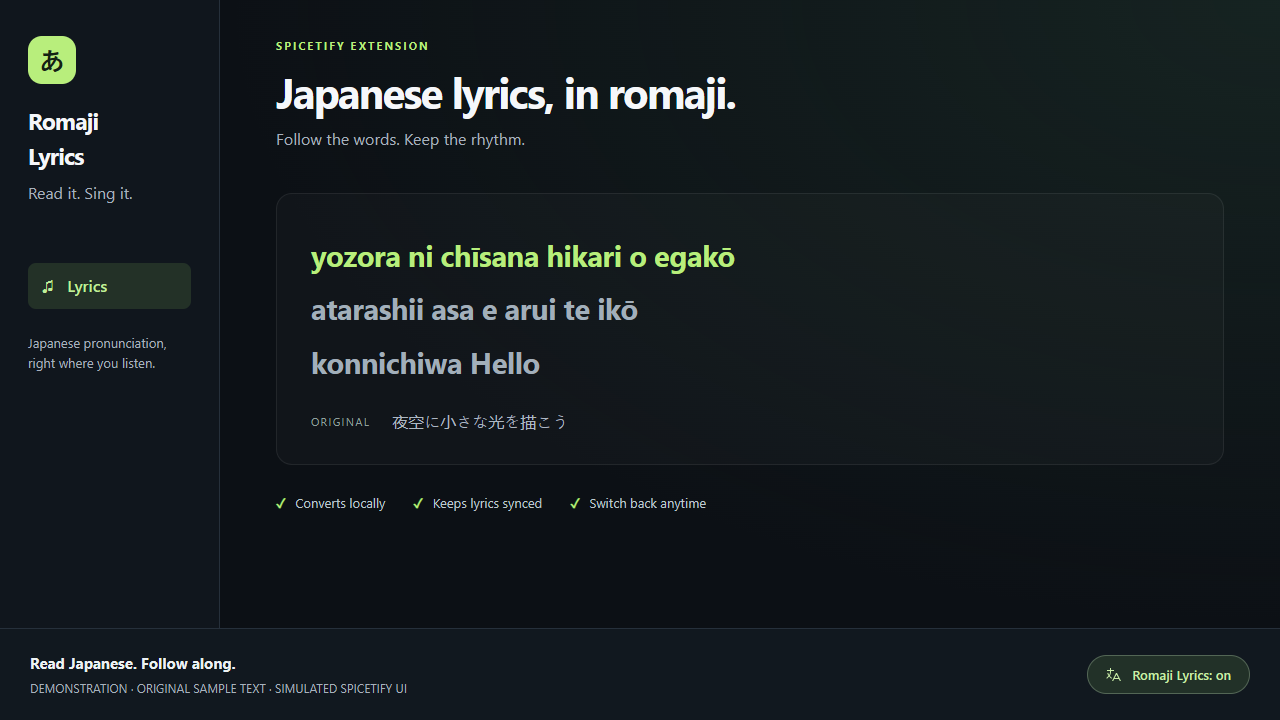
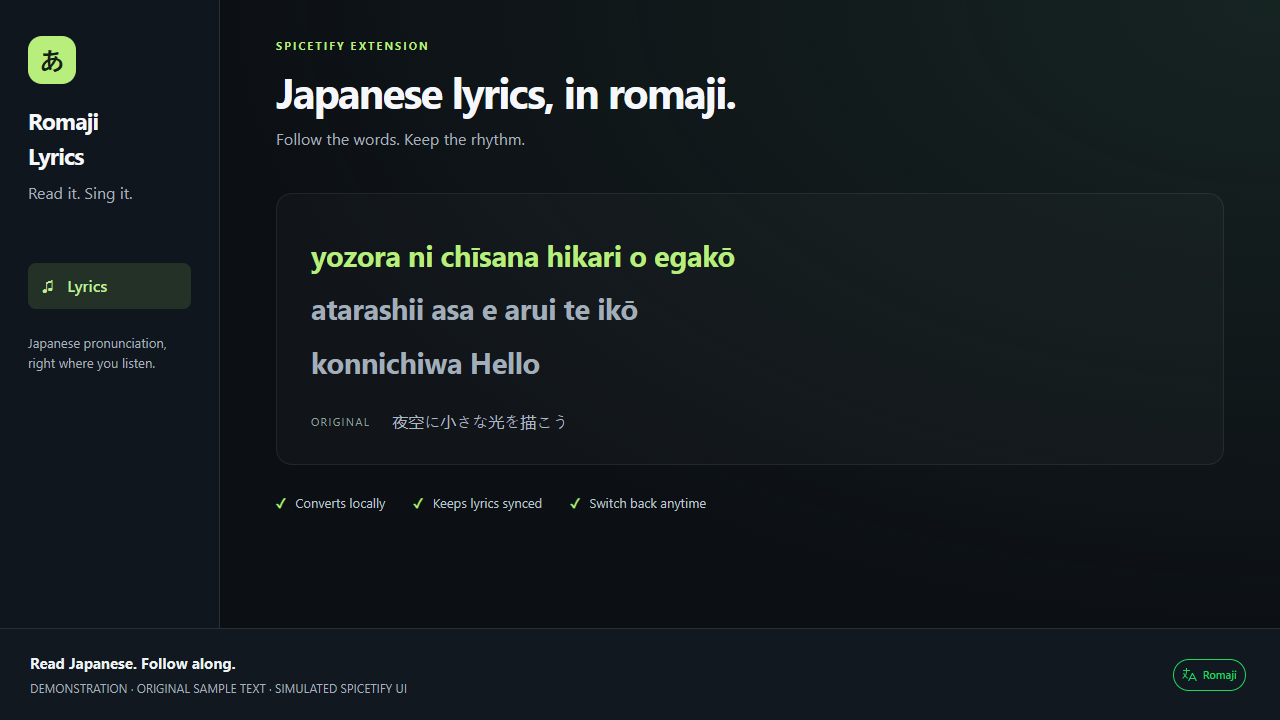
Restore visible Japanese and romaji player toggle

Changed region(s): [[0.8438, 0.8861, 1.0, 0.9778]]

diff --git a/romaji_lyrics.js b/romaji_lyrics.js
@@ -1,4 +1,4 @@
-// Romaji Lyrics v1.0.2 | MIT | https://github.com/Piyush-Sagar/spicetify-romaji-lyrics
+// Romaji Lyrics v1.0.3 | MIT | https://github.com/Piyush-Sagar/spicetify-romaji-lyrics
 // Bundled third-party code: see THIRD_PARTY_NOTICES.md and licenses/.
 /*!
 --- doublearray-LICENSE.txt ---
@@ -4200,6 +4200,50 @@ SOFTWARE.
     }
   };
 
+  // src/toggle.js
+  function createLyricsToggle({ document: document2, enabled, onToggle, icon }) {
+    const button = document2.createElement("button");
+    button.id = "romaji-toggle";
+    button.type = "button";
+    button.dataset.romajiIgnore = "";
+    button.style.cssText = "display:inline-flex;align-items:center;justify-content:center;gap:5px;flex:0 0 auto;min-height:32px;padding:0 8px;margin-right:4px;border:1px solid currentColor;border-radius:16px;background:transparent;font-family:inherit;font-size:11px;font-weight:600;line-height:1.2;cursor:pointer;";
+    const glyph = document2.createElement("span");
+    glyph.setAttribute("aria-hidden", "true");
+    glyph.style.cssText = "display:flex;align-items:center;";
+    glyph.innerHTML = icon;
+    const label = document2.createElement("span");
+    button.append(glyph, label);
+    button.addEventListener("click", onToggle);
+    function update(isRomaji) {
+      label.textContent = isRomaji ? "Romaji" : "日本語";
+      const action = isRomaji ? "Show Japanese lyrics" : "Show romaji lyrics";
+      button.setAttribute("aria-label", action);
+      button.setAttribute("aria-pressed", String(isRomaji));
+      button.title = action;
+      button.style.color = isRomaji ? "var(--spice-button, #1ed760)" : "var(--spice-subtext, #b3b3b3)";
+    }
+    function mount() {
+      const bar = document2.querySelector('[data-testid="now-playing-bar"], .main-nowPlayingBar-nowPlayingBar, .n6XE6JL2UDeFogzbLcNC');
+      if (!bar) return;
+      const lyrics = bar.querySelector('button[data-testid="lyrics-button"]');
+      const host = lyrics?.parentElement ?? bar.querySelector(".main-nowPlayingBar-right > div");
+      if (!host || button.parentElement === host) return;
+      host.insertBefore(button, lyrics ?? host.firstChild);
+    }
+    update(enabled);
+    const observer = new document2.defaultView.MutationObserver(mount);
+    observer.observe(document2.body, { childList: true, subtree: true });
+    mount();
+    return {
+      update,
+      dispose() {
+        observer.disconnect();
+        button.removeEventListener("click", onToggle);
+        button.remove();
+      }
+    };
+  }
+
   // src/main.js
   (() => {
     "use strict";
@@ -4220,7 +4264,7 @@ SOFTWARE.
       clearTimeout(retryTimer);
       controller?.dispose();
       menu?.deregister();
-      button?.deregister();
+      button?.dispose();
       api?.Player?.removeEventListener?.("songchange", onSongChange);
       window.removeEventListener("pagehide", dispose);
       if (window[INSTANCE]?.dispose === dispose) delete window[INSTANCE];
@@ -4262,17 +4306,12 @@ SOFTWARE.
         } catch {
         }
         menu.setState(controller.enabled);
-        if (button) {
-          button.active = controller.enabled;
-          button.label = controller.enabled ? "Romaji Lyrics: on" : "Romaji Lyrics: off";
-        }
+        button?.update(controller.enabled);
         api.showNotification?.(`Romaji Lyrics: ${controller.enabled ? "on" : "off"}`);
       };
       menu = new api.Menu.Item("Romaji Lyrics", enabled, toggle, icon);
       menu.register();
-      if (api.Playbar?.Button) {
-        button = new api.Playbar.Button(enabled ? "Romaji Lyrics: on" : "Romaji Lyrics: off", icon, toggle, false, enabled);
-      }
+      button = createLyricsToggle({ document, enabled, onToggle: toggle, icon });
       api.Player.addEventListener("songchange", onSongChange);
       window.addEventListener("pagehide", dispose);
       controller.start();

diff --git a/tests/toggle.test.js b/tests/toggle.test.js
@@ -1,0 +1,70 @@
+import test from "node:test";
+import assert from "node:assert/strict";
+import { JSDOM } from "jsdom";
+import { readFile } from "node:fs/promises";
+import { createLyricsToggle } from "../src/toggle.js";
+
+const tick = () => new Promise(resolve => setTimeout(resolve, 0));
+const player = '<aside data-testid="now-playing-bar"><div><button data-testid="lyrics-button">Lyrics</button></div></aside>';
+
+test("toggle mounts next to lyrics when the player appears and survives player replacement", async () => {
+  const dom = new JSDOM("<body></body>");
+  const { document } = dom.window;
+  let clicks = 0;
+  const toggle = createLyricsToggle({ document, enabled: true, onToggle: () => clicks++, icon: "" });
+  try {
+    document.body.innerHTML = player;
+    await tick();
+    const button = document.querySelector("#romaji-toggle");
+    assert.equal(button.nextElementSibling.dataset.testid, "lyrics-button");
+    assert.equal(button.textContent, "Romaji");
+    assert.equal(button.getAttribute("aria-label"), "Show Japanese lyrics");
+    button.click();
+    assert.equal(clicks, 1);
+    toggle.update(false);
+    assert.equal(button.textContent, "日本語");
+    assert.equal(button.getAttribute("aria-pressed"), "false");
+    document.body.innerHTML = player;
+    await tick();
+    assert.equal(document.querySelector("#romaji-toggle"), button);
+    assert.equal(document.querySelectorAll("#romaji-toggle").length, 1);
+    toggle.dispose();
+    document.body.innerHTML = player;
+    await tick();
+    assert.equal(document.querySelector("#romaji-toggle"), null);
+  } finally { toggle.dispose(); dom.window.close(); }
+});
+
+test("player and profile toggles share the saved preference and bundle reload keeps one toggle", async () => {
+  const dom = new JSDOM(`<body>${player}</body>`, { runScripts: "outside-only", url: "https://xpui.app.spotify.com" });
+  const { window } = dom;
+  let menu;
+  const saved = new Map([["romaji-lyrics:enabled", "false"]]);
+  window.Spicetify = {
+    React: { createElement() {} },
+    Player: { addEventListener() {}, removeEventListener() {} },
+    LocalStorage: { get: key => saved.get(key), set: (key, value) => saved.set(key, value) },
+    Menu: { Item: class {
+      constructor(name, enabled, click) { menu = this; this.enabled = enabled; this.click = click; }
+      register() {}
+      deregister() {}
+      setState(enabled) { this.enabled = enabled; }
+    } },
+  };
+  try {
+    const bundle = await readFile("romaji_lyrics.js", "utf8");
+    window.eval(bundle);
+    let button = window.document.querySelector("#romaji-toggle");
+    assert.equal(button.textContent, "日本語");
+    button.click();
+    assert.equal(saved.get("romaji-lyrics:enabled"), "true");
+    assert.equal(menu.enabled, true);
+    menu.click();
+    assert.equal(button.textContent, "日本語");
+    assert.equal(saved.get("romaji-lyrics:enabled"), "false");
+    window.eval(bundle);
+    button = window.document.querySelector("#romaji-toggle");
+    assert.equal(window.document.querySelectorAll("#romaji-toggle").length, 1);
+    assert.equal(button.textContent, "日本語");
+  } finally { window.__spicetifyRomajiLyrics?.dispose(); window.close(); }
+});

diff --git a/src/toggle.js b/src/toggle.js
@@ -1,0 +1,47 @@
+// Spotify 1.3.4 no longer exposes the legacy containers used by Playbar.Button.
+// Keep one toggle attached to the native lyrics control as the player remounts.
+export function createLyricsToggle({ document, enabled, onToggle, icon }) {
+  const button = document.createElement("button");
+  button.id = "romaji-toggle";
+  button.type = "button";
+  button.dataset.romajiIgnore = "";
+  button.style.cssText = "display:inline-flex;align-items:center;justify-content:center;gap:5px;flex:0 0 auto;min-height:32px;padding:0 8px;margin-right:4px;border:1px solid currentColor;border-radius:16px;background:transparent;font-family:inherit;font-size:11px;font-weight:600;line-height:1.2;cursor:pointer;";
+  const glyph = document.createElement("span");
+  glyph.setAttribute("aria-hidden", "true");
+  glyph.style.cssText = "display:flex;align-items:center;";
+  glyph.innerHTML = icon; // Extension-owned static SVG, never lyric content.
+  const label = document.createElement("span");
+  button.append(glyph, label);
+  button.addEventListener("click", onToggle);
+
+  function update(isRomaji) {
+    label.textContent = isRomaji ? "Romaji" : "日本語";
+    const action = isRomaji ? "Show Japanese lyrics" : "Show romaji lyrics";
+    button.setAttribute("aria-label", action);
+    button.setAttribute("aria-pressed", String(isRomaji));
+    button.title = action;
+    button.style.color = isRomaji ? "var(--spice-button, #1ed760)" : "var(--spice-subtext, #b3b3b3)";
+  }
+
+  function mount() {
+    const bar = document.querySelector('[data-testid="now-playing-bar"], .main-nowPlayingBar-nowPlayingBar, .n6XE6JL2UDeFogzbLcNC');
+    if (!bar) return;
+    const lyrics = bar.querySelector('button[data-testid="lyrics-button"]');
+    const host = lyrics?.parentElement ?? bar.querySelector(".main-nowPlayingBar-right > div");
+    if (!host || button.parentElement === host) return;
+    host.insertBefore(button, lyrics ?? host.firstChild);
+  }
+
+  update(enabled);
+  const observer = new document.defaultView.MutationObserver(mount);
+  observer.observe(document.body, { childList: true, subtree: true });
+  mount();
+  return {
+    update,
+    dispose() {
+      observer.disconnect();
+      button.removeEventListener("click", onToggle);
+      button.remove();
+    },
+  };
+}

diff --git a/src/main.js b/src/main.js
@@ -1,5 +1,6 @@
 import { createRomanizer } from "./analyzer.js";
 import { LyricsController } from "./controller.js";
+import { createLyricsToggle } from "./toggle.js";
 
 (() => {
   "use strict";
@@ -20,7 +21,7 @@ import { LyricsController } from "./controller.js";
     clearTimeout(retryTimer);
     controller?.dispose();
     menu?.deregister();
-    button?.deregister();
+    button?.dispose();
     api?.Player?.removeEventListener?.("songchange", onSongChange);
     window.removeEventListener("pagehide", dispose);
     if (window[INSTANCE]?.dispose === dispose) delete window[INSTANCE];
@@ -59,17 +60,12 @@ import { LyricsController } from "./controller.js";
       controller.setEnabled(!controller.enabled);
       try { api.LocalStorage?.set(KEY, String(controller.enabled)); } catch { /* Session-only mode. */ }
       menu.setState(controller.enabled);
-      if (button) {
-        button.active = controller.enabled;
-        button.label = controller.enabled ? "Romaji Lyrics: on" : "Romaji Lyrics: off";
-      }
+      button?.update(controller.enabled);
       api.showNotification?.(`Romaji Lyrics: ${controller.enabled ? "on" : "off"}`);
     };
     menu = new api.Menu.Item("Romaji Lyrics", enabled, toggle, icon);
     menu.register();
-    if (api.Playbar?.Button) {
-      button = new api.Playbar.Button(enabled ? "Romaji Lyrics: on" : "Romaji Lyrics: off", icon, toggle, false, enabled);
-    }
+    button = createLyricsToggle({ document, enabled, onToggle: toggle, icon });
     api.Player.addEventListener("songchange", onSongChange);
     window.addEventListener("pagehide", dispose);
     controller.start();

diff --git a/tests/fixture.html b/tests/fixture.html
@@ -56,7 +56,7 @@
   <footer>
     <div class="demo"><strong>Read Japanese. Follow along.</strong>DEMONSTRATION · ORIGINAL SAMPLE TEXT · SIMULATED SPICETIFY UI</div>
     <div id="notifications" role="status"></div>
-    <div id="playbar"></div>
+    <div id="playbar" data-testid="now-playing-bar"><button data-testid="lyrics-button" style="display:none">Lyrics</button></div>
   </footer>
 </div>
 <script>

diff --git a/VALIDATION.md b/VALIDATION.md
@@ -1,5 +1,7 @@
 # Release validation
 
+Version 1.0.3 checked on 9 October 2026: all 19 regression tests passed, including mounting the language toggle after the player appears, reattaching after player replacement, shared saved preference with the profile menu, and cleanup during bundle reload. The real-CDN Chromium integration passed with no browser errors, and the refreshed preview was visually reviewed.
+
 Version 1.0.2 checked on 9 October 2026: build, all 17 regression tests, and Marketplace asset validation passed. The additional test covers Spotify 1.3.4's primary lyric class, Japanese restoration, and unchanged translations and controls. The real-CDN Chromium integration also passed with all 12 integrity-checked dictionaries and no browser errors.
 
 Authenticated Spotify 1.3.4.258 with Spicetify 2.45.3 was then verified on the user's second display: native lyric preview and full lyrics converted, the profile-menu toggle restored Japanese, and re-enabling restored romaji. A duplicate manual/Marketplace installation was identified and the manual entry was disabled, leaving the updated Marketplace copy active. Its CDN bytes matched the published bundle; the temporary diagnostic extension was removed after testing. No live song lyrics or account screenshots were published.

diff --git a/README.md b/README.md
@@ -36,7 +36,7 @@ Spicetify's `config extensions` command appends to the enabled extensions. If yo
 
 ## Use
 
-Play a Japanese track and open Spotify's lyrics. The extension starts enabled. Click the **Romaji Lyrics** language icon in the playback bar, or select **Romaji Lyrics** in your profile menu, to toggle it. The profile menu remains available if your layout does not display playback-bar extensions.
+Play a Japanese track and open Spotify's lyrics. The extension starts enabled. Click **Romaji** beside Spotify's lyrics button to show the original Japanese; the toggle then reads **日本語**. Click **日本語** to switch back to romaji. Your choice is saved between sessions. You can also toggle **Romaji Lyrics** in your profile menu; both controls stay in sync.
 
 The first Japanese track downloads approximately 17 MB of compressed dictionary data. Downloads use the browser's normal HTTP cache; the initialized dictionary stays in memory until Spotify reloads. Subsequent tracks in that session use the same dictionary.
 

diff --git a/CHANGELOG.md b/CHANGELOG.md
@@ -1,5 +1,11 @@
 # Changelog
 
+## 1.0.3
+
+- Restore a visible language toggle beside Spotify's native lyrics button on current player layouts.
+- Show `Romaji` or `日本語` for the current mode, with accessible switch labels and a saved preference shared with the profile menu.
+- Keep one toggle through player remounts and extension reloads.
+
 ## 1.0.2
 
 - Support Spotify 1.3.4's renamed primary lyric text element in native previews and full lyrics.
